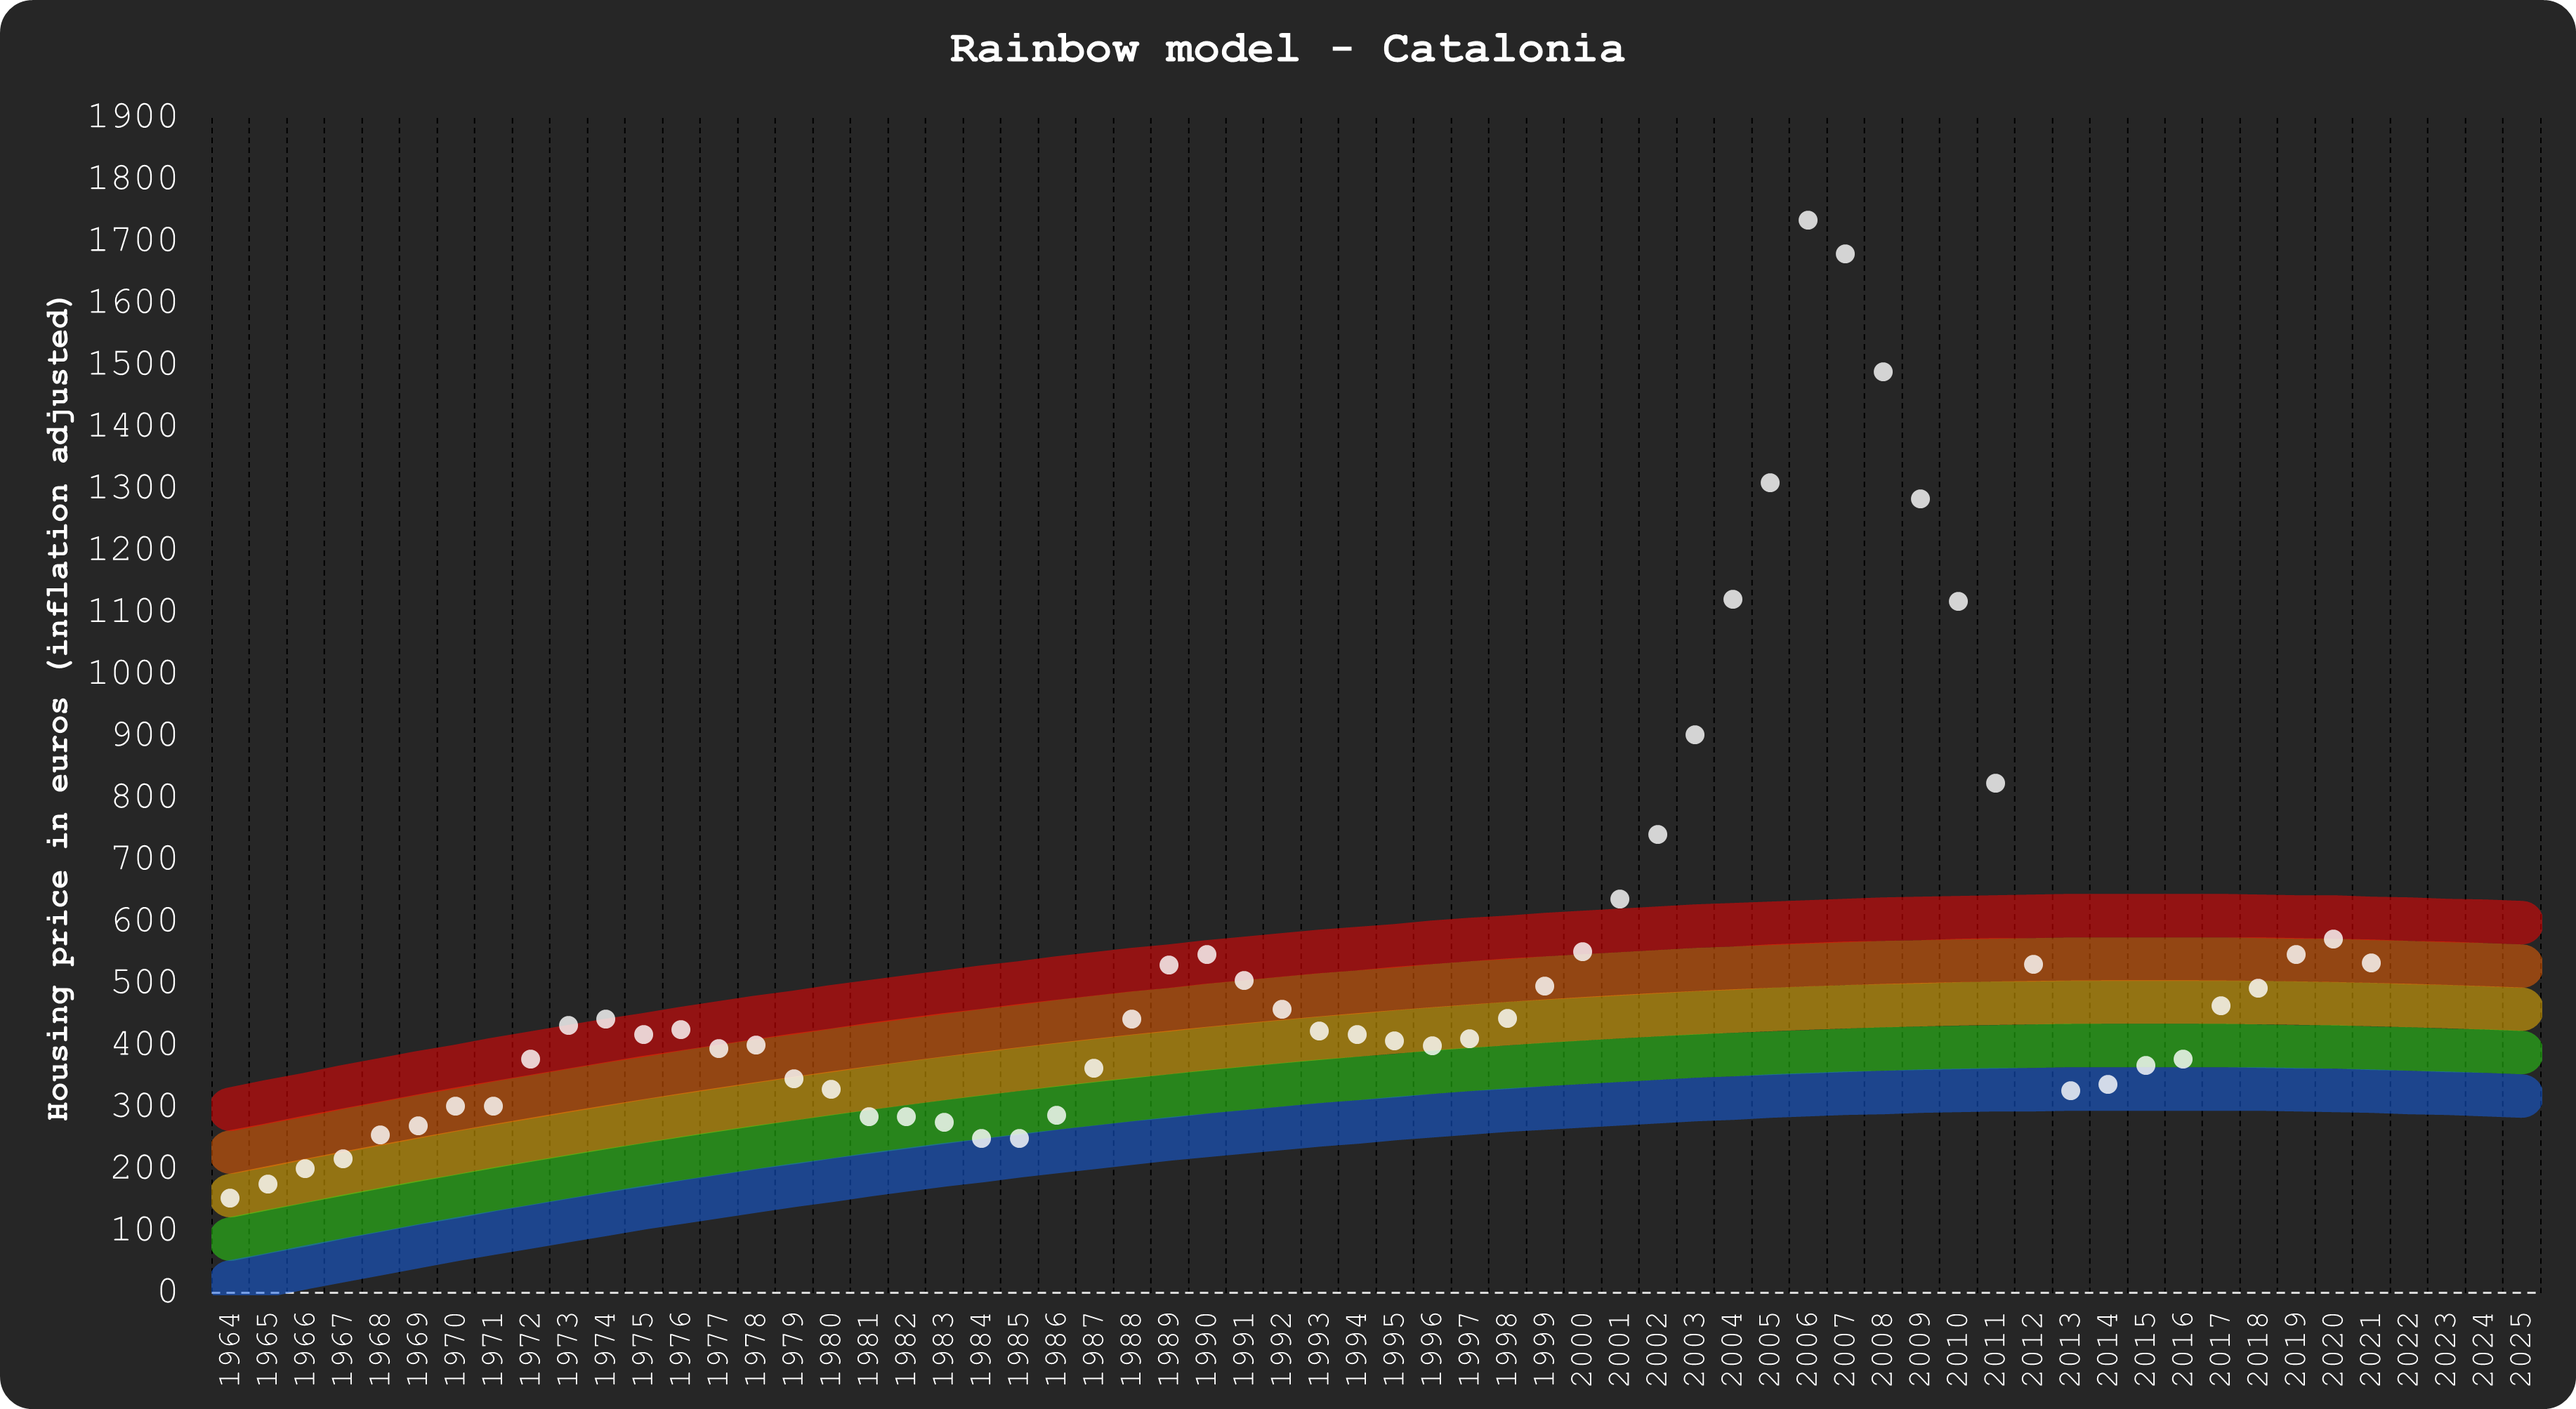
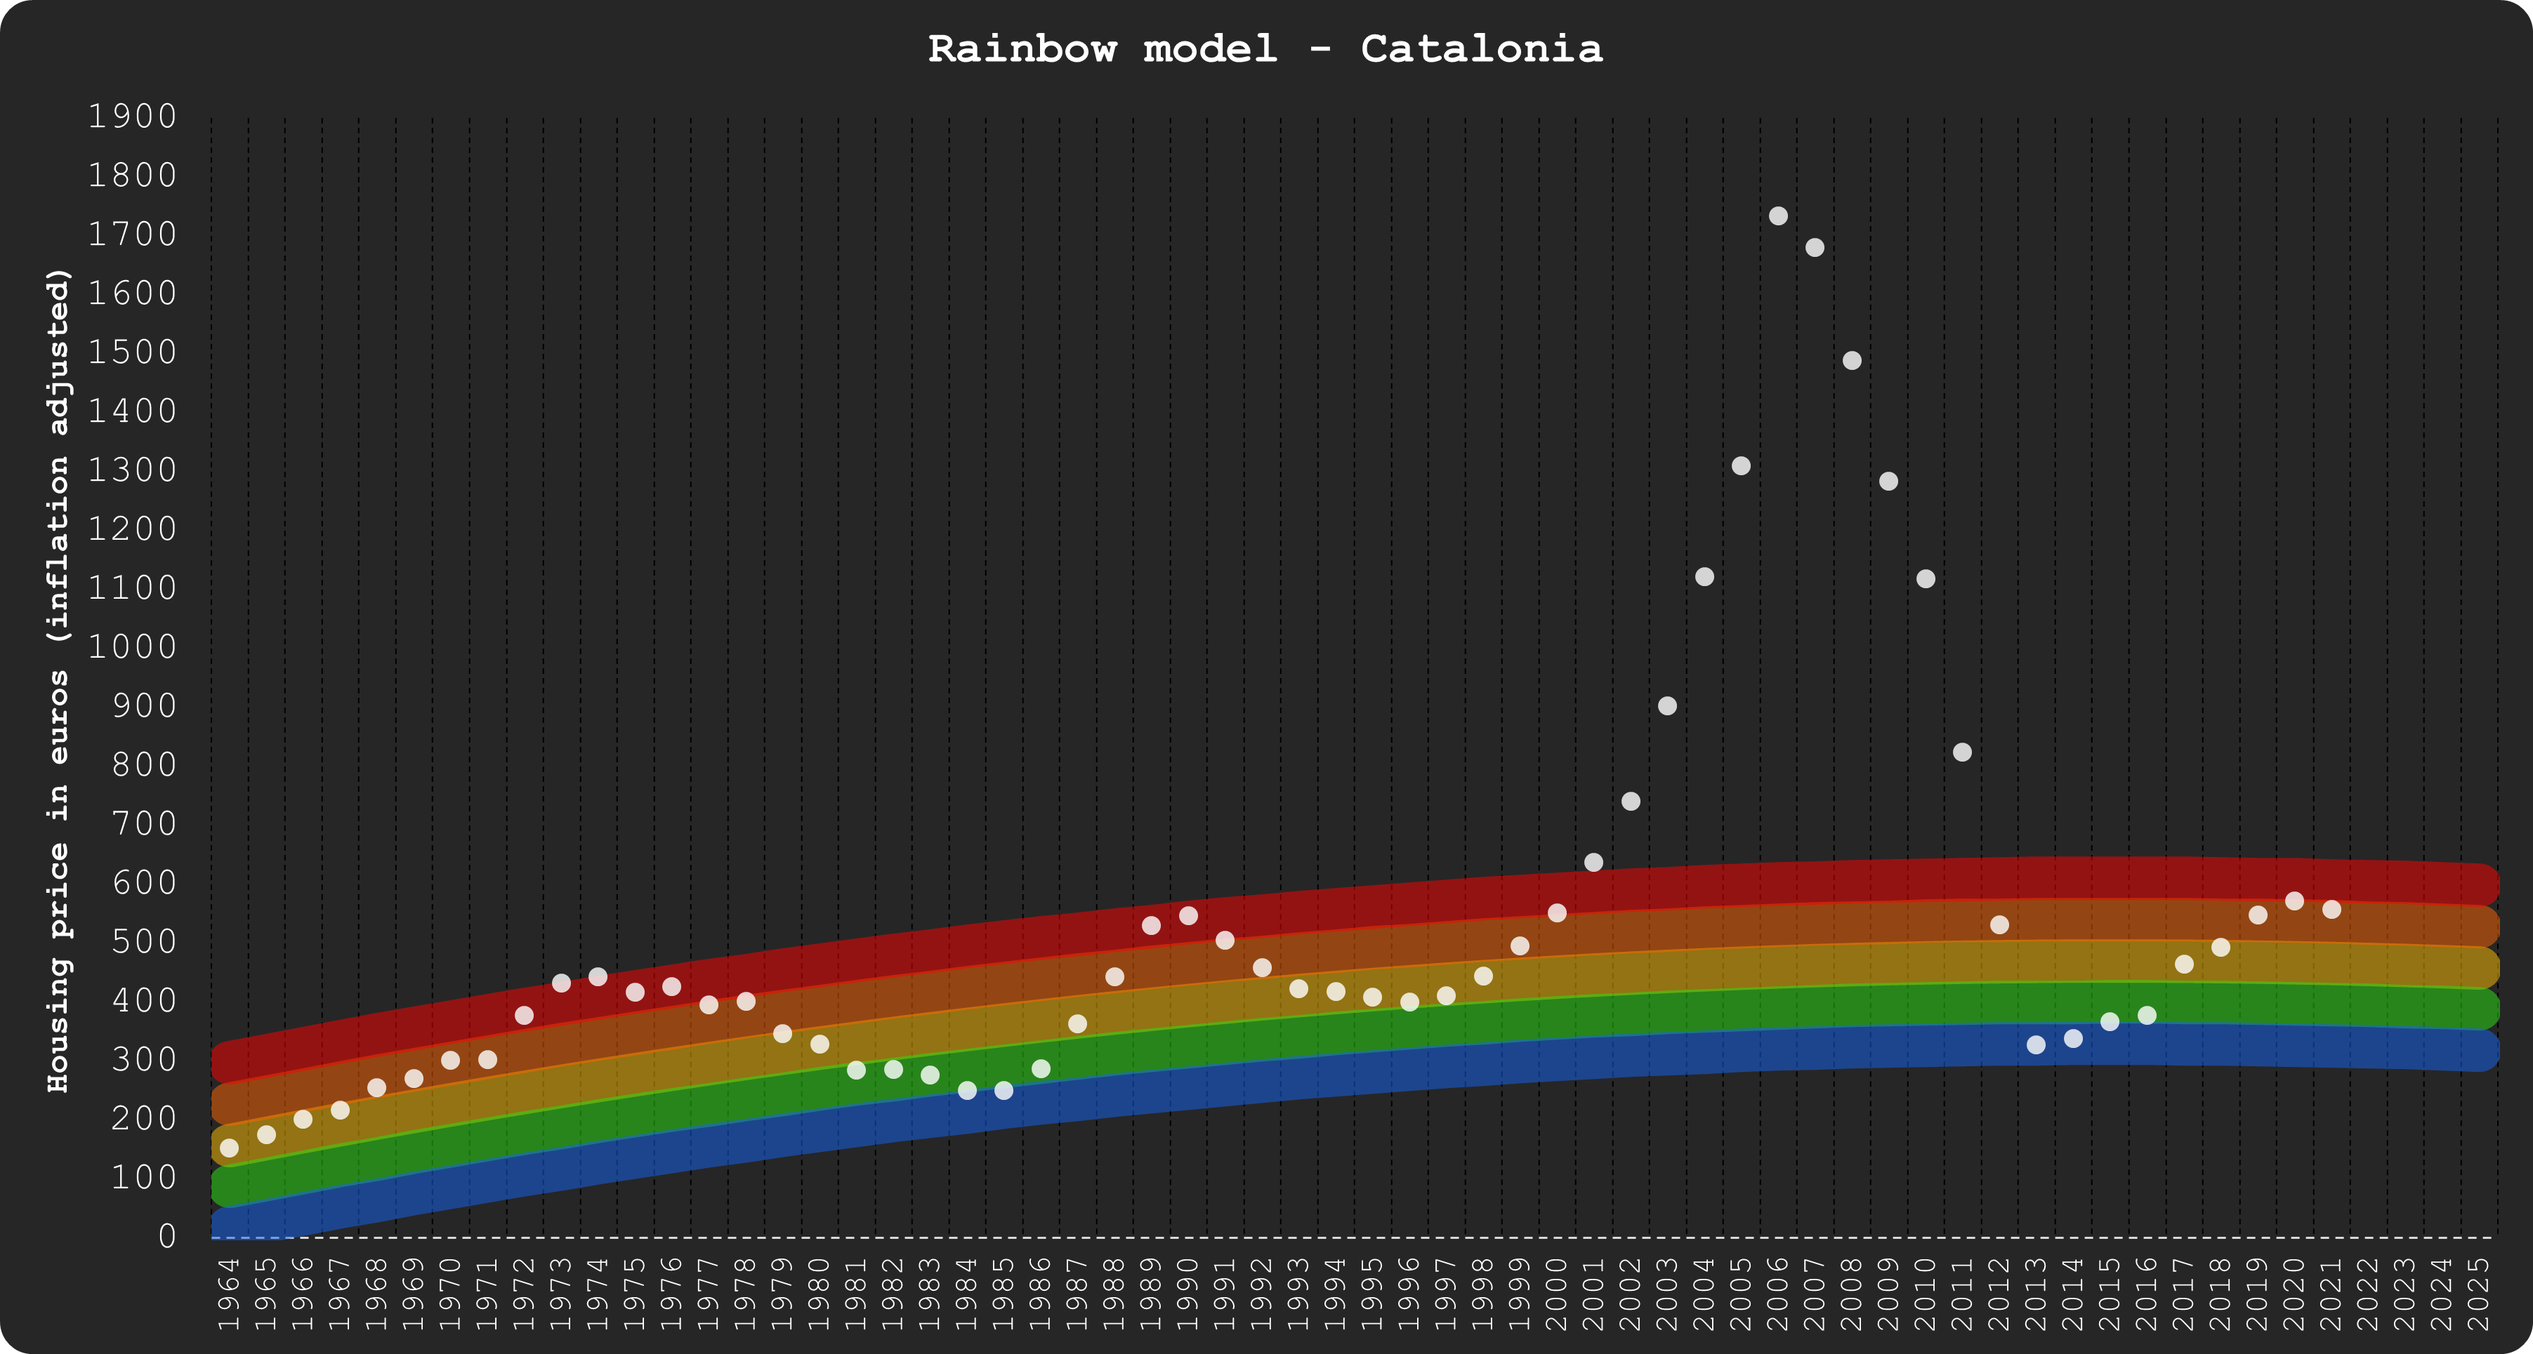
update

diff --git a/pages/posts/rainbow.md b/pages/posts/rainbow.md
@@ -13,8 +13,8 @@ import Image from 'next/image'
 <Image
   src="/images/rainbow.png"
   alt="Reload chart"
-  width={3562}
-  height={2012}
+  width={3607}
+  height={1929}
   priority
   className="next-image"
 />
@@ -41,8 +41,8 @@ Full dataset chart, from 1964 to 2060:
 <Image
   src="/images/rainbowmax.png"
   alt="Reload chart"
-  width={3668}
-  height={2007}
+  width={3570}
+  height={1931}
   priority
   className="next-image"
 />
